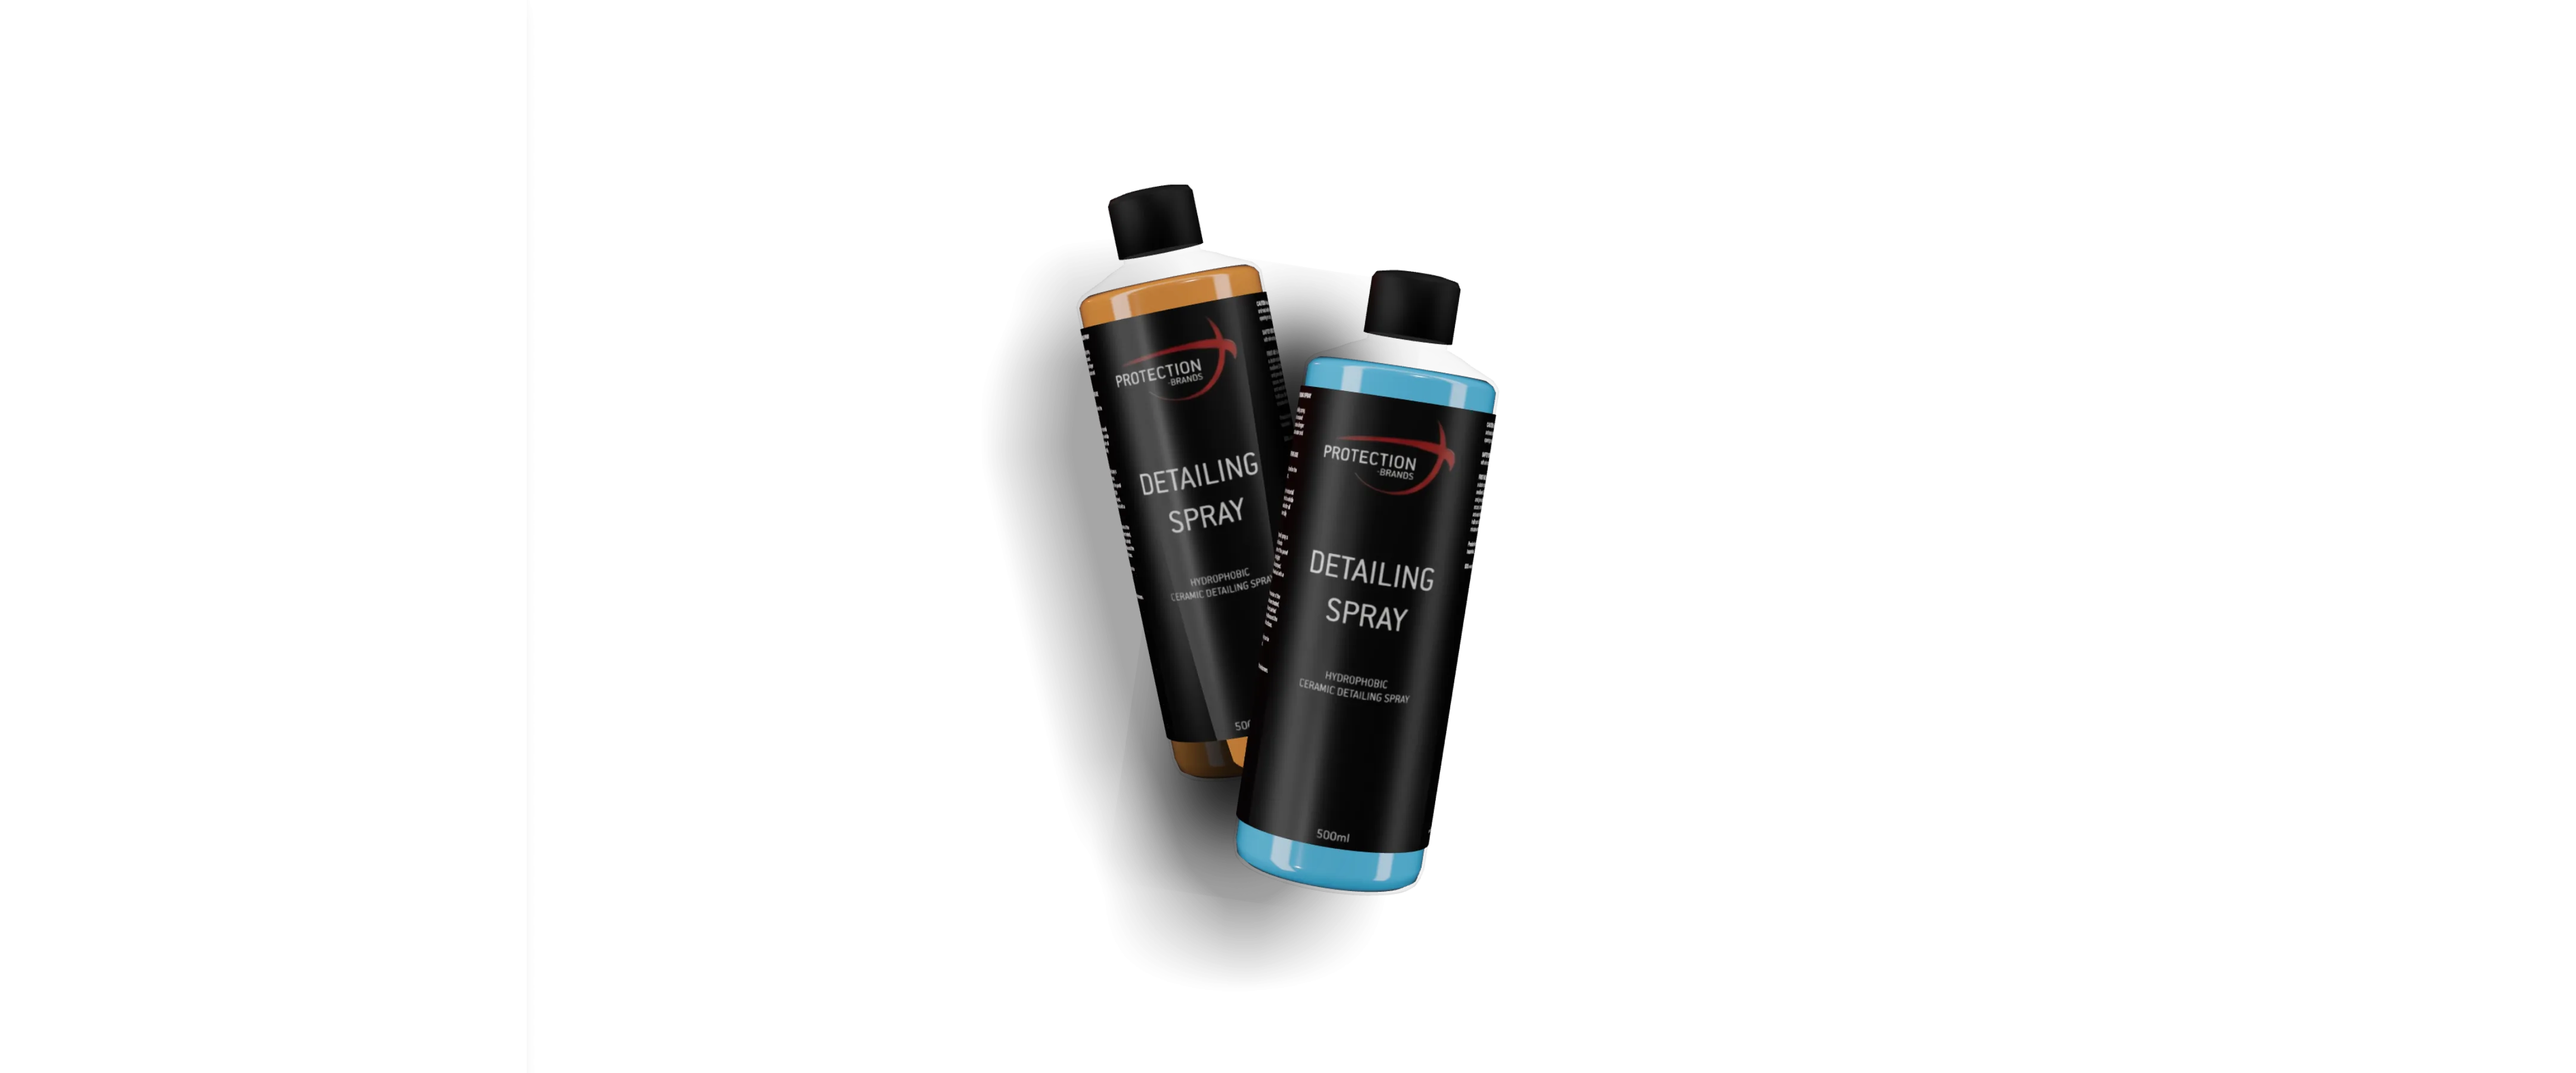
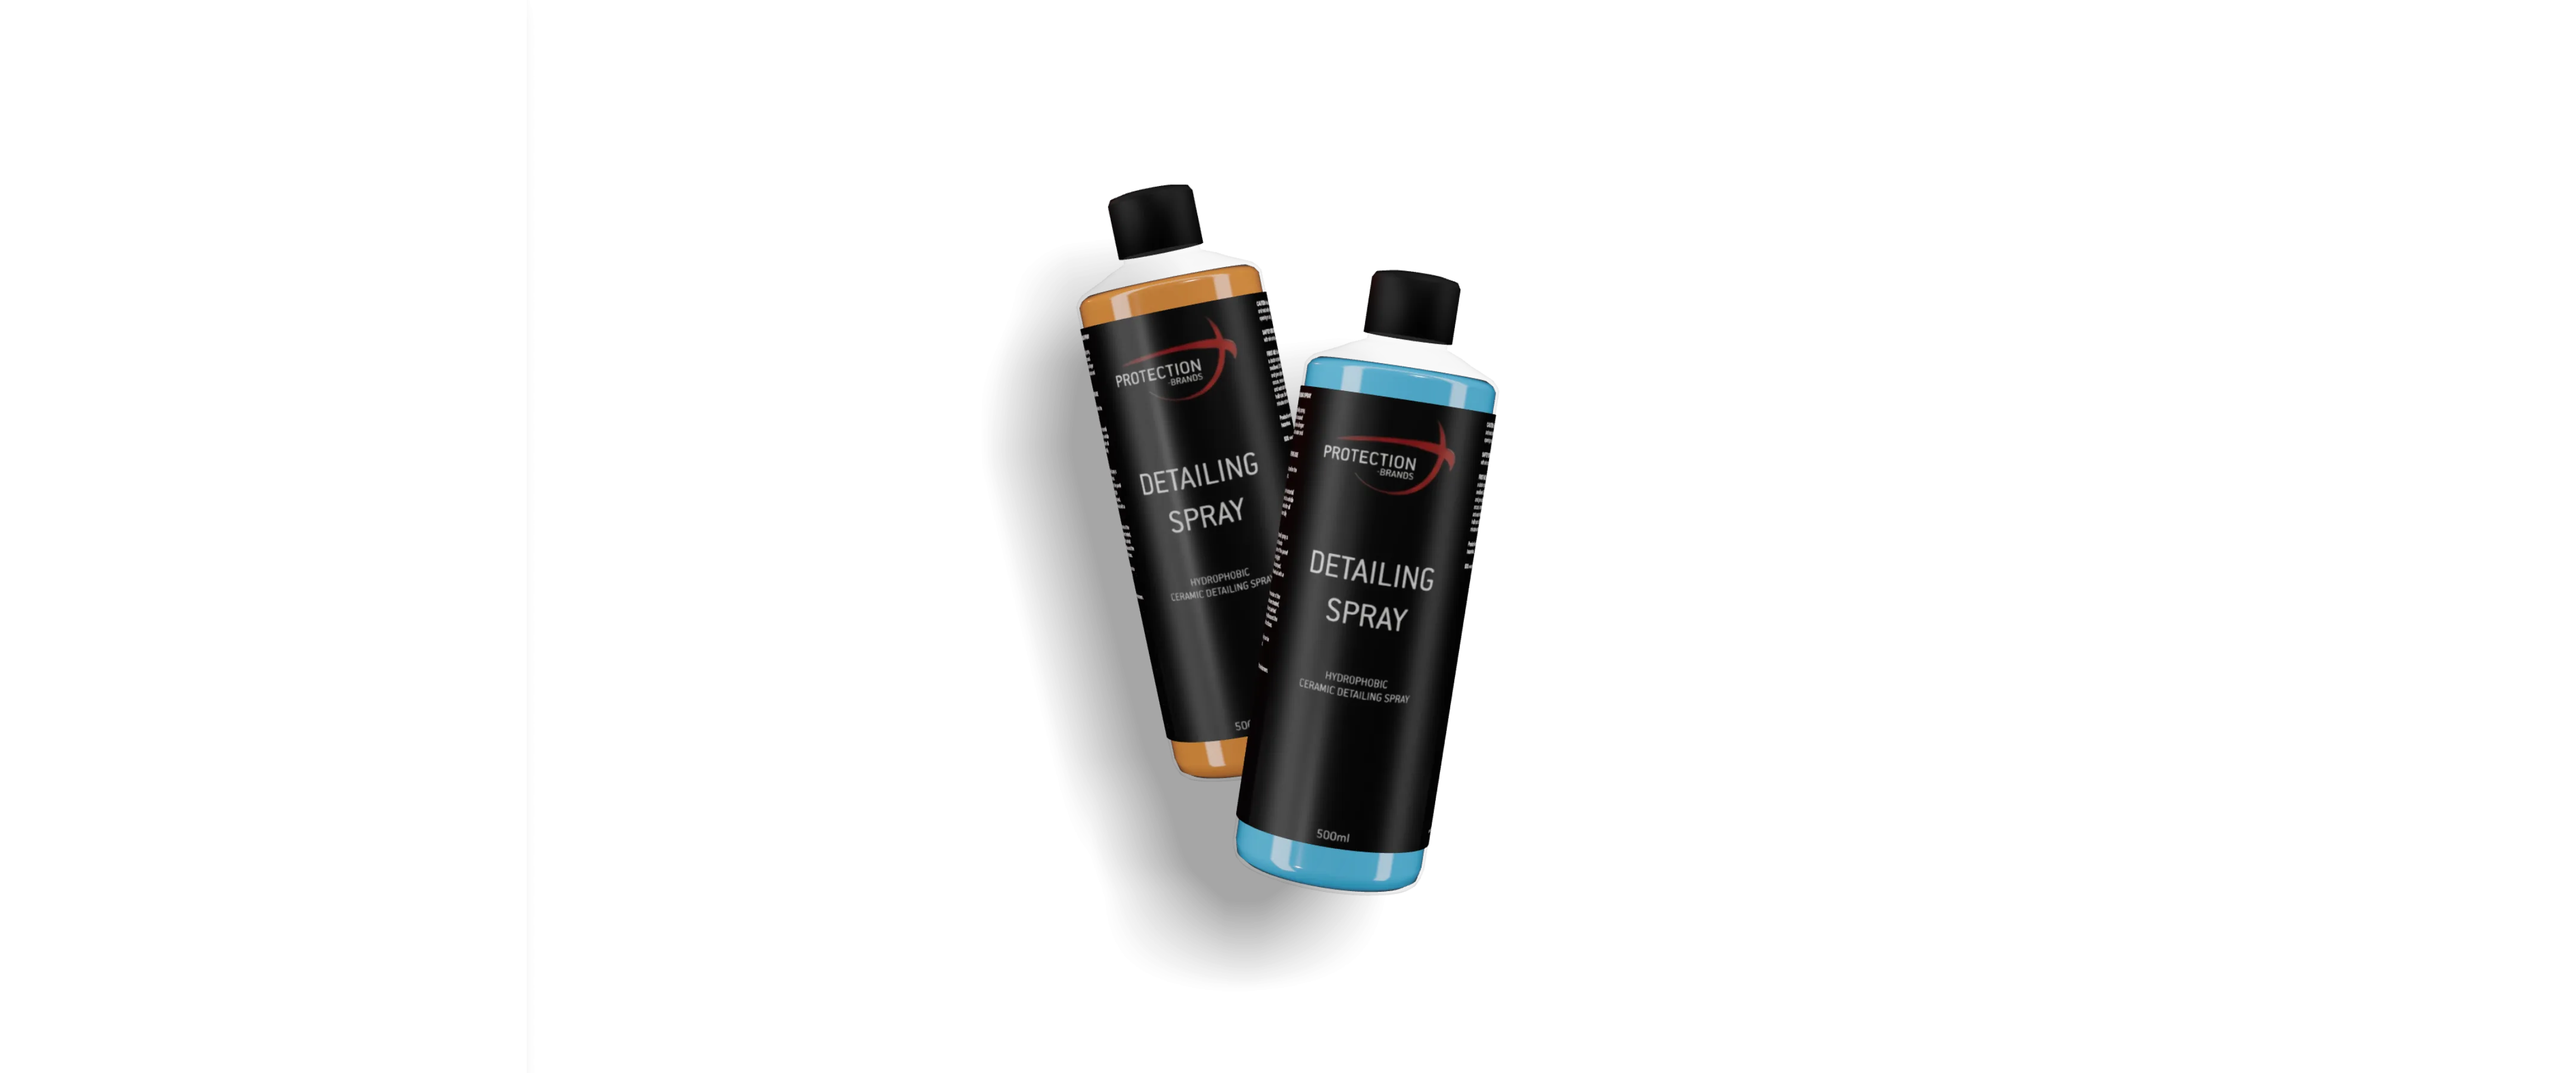
Hero: remove the blue bottle's soft shadow on the amber one
It read as clipping on the other bottle. Stills re-rendered without it so the
still-to-3D swap still matches. The flicker-free swap stays.

Changed region(s): [[0.4688, 0.2489, 0.5625, 0.4978], [0.4375, 0.6222, 0.5, 0.8089]]

diff --git a/assets/pb-hero-bottle.js b/assets/pb-hero-bottle.js
@@ -194,24 +194,6 @@ class PBHeroBottle extends HTMLElement {
       group.position.set(...spec.position);
       group.rotation.set(...spec.tilt);
       this.#scene.add(group);
-      // The front bottle casts a soft shadow onto the one behind it. A lit shadow can't show
-      // on the black label, so this is a blurred dark shape behind its left edge that dims the
-      // amber bottle's liquid, print and sheen where they overlap. It moves with the bottle.
-      if (index === 1) {
-        const shade = new THREE.Mesh(
-          new THREE.PlaneGeometry(2.4, 6.6),
-          new THREE.MeshBasicMaterial({
-            map: softShadowTexture(THREE),
-            transparent: true,
-            opacity: Math.min(0.9, look.shadow * 2.6),
-            depthWrite: false,
-          })
-        );
-        shade.position.set(-1.05, -0.25, -0.15);
-        shade.renderOrder = 3;
-        group.add(shade);
-      }
-
       this.#bottles.push({ group, spec });
     });
 
@@ -427,22 +409,6 @@ class PBHeroBottle extends HTMLElement {
 }
 
 const THREE_DEG = (degrees) => (degrees * Math.PI) / 180;
-
-/* A soft, dark, bottle-shaped blur on a transparent canvas, for the front bottle's shadow. */
-function softShadowTexture(THREE) {
-  const canvas = document.createElement('canvas');
-  canvas.width = 128;
-  canvas.height = 320;
-  const context = canvas.getContext('2d');
-  context.filter = 'blur(18px)';
-  context.fillStyle = '#000';
-  context.beginPath();
-  context.roundRect(30, 30, 68, 260, 30);
-  context.fill();
-  const texture = new THREE.CanvasTexture(canvas);
-  texture.colorSpace = THREE.SRGBColorSpace;
-  return texture;
-}
 
 function loadTexture(THREE, url) {
   const loader = new THREE.TextureLoader();
